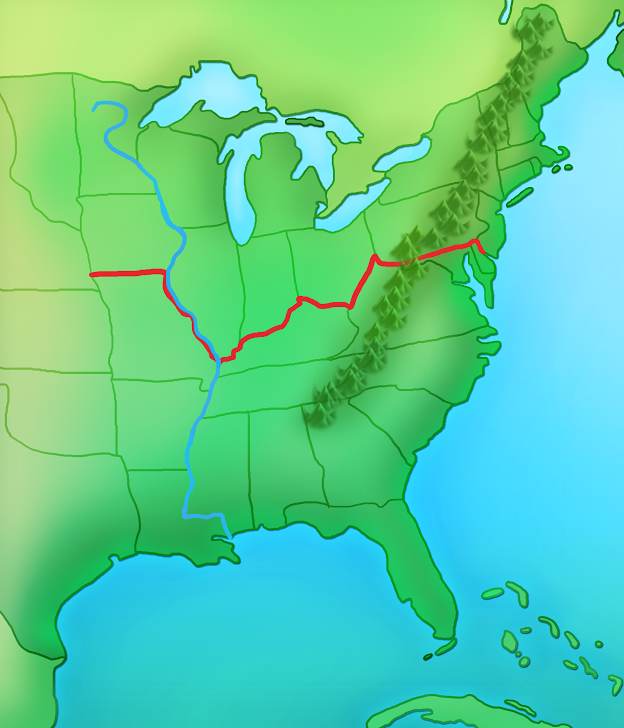
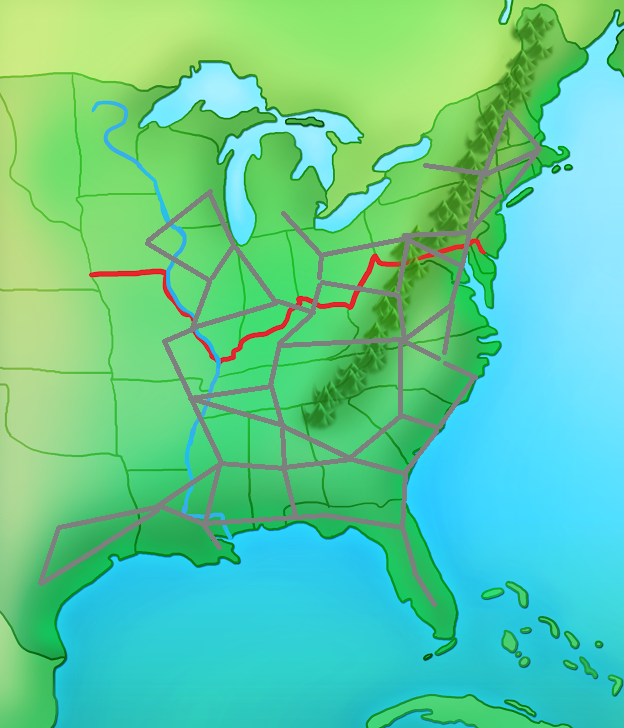
Updated Map and Position Fixes

diff --git a/scripts/game/screens/testescape.js b/scripts/game/screens/testescape.js
@@ -81,7 +81,7 @@ function(PIXI, Screen, Images, Collisions) {
 
 	var SampleMiniGame = new Screen({
 		init: function(){
-				var backMap = Images.getTexture("map.png");
+				var backMap = Images.getTexture("escapemap.png");
 				var back = new PIXI.Sprite(backMap);
 				this.stage.addChild(back);
 				var markTexture = [];
@@ -147,56 +147,56 @@ function(PIXI, Screen, Images, Collisions) {
 					
 					
 					//We're back to this ugliness because evidently javascript isn't a fan of loading CSVs
-					nodeLines = [[1,"San Antonio, Texas",50,475,"2,3",2],
-[2,"Austin, Texas",70,425,"1,4",0],
-[3,"Houston, Texas",100,445,"1,4",0],
-[4,"Alexandria, Lousiana",150,410,"2,3,5,7",0],
-[5,"Baton Rouge, Lousiana",200,430,"4,6,7,11",0],
-[6,"New Orleans, Lousiana",210,455,"5",2],
-[7,"Jackson, Mississippi",205,375,"4,5,8,10",0],
-[8,"Little Rock, Arkansas",185,320,"7,9,15,16",1],
-[9,"Birmingham, Alabama",270,345,"8,10,16,17",1],
-[10,"Montgomery, Alabama",270,375,"7,9,11,17",0],
-[11,"Tallahassee, Florida",275,420,"5,10,12",0],
-[12,"St. Augustine, Florida",365,430,"11,13,18",0],
-[13,"Lakeland, Florida",375,475,"12,14",0],
-[14,"Everglades, Flordia",400,515,"13",2],
-[15,"Springfield, Missouri",175,270,"8,19",0],
-[16,"Nashville, Tennessee",260,300,"8,9,20",0],
-[17,"Atlanta, Georgia",310,360,"9,10,18,22",0],
-[18,"Savannah, Georgia",365,375,"12,17,23",0],
-[19,"Saint Louis, Missouri",185,260,"15,27,30",0],
-[20,"Louisiville, Kentucky",270,265,"16,21,34",0],
-[21,"Roanoke, Virginia",355,275,"20,22,24,35,36",1],
-[22,"Columbia, South Carolina",360,335,"17,21,23",0],
-[23,"Charleston, South Carolina",395,345,"18,22,25,43",4],
-[24,"Raleigh, North Carolina",405,295,"21,25,36",0],
-[25,"Jacksonville, North Carolina",430,310,"23,24",0],
-[26,"Des Moines, Iowa",155,185,"27,28",0],
-[27,"Springfield, Illinois",205,220,"19,26,29",0],
-[28,"Madison, Wisconsin",205,140,"26,29",2],
-[29,"Chicago, Illinois",225,190,"27,28,30",0],
-[30,"Indianapolis, Indiana",250,235,"19,29,34",0],
-[31,"Cincinnati, Ohio",310,195,"32,33,37",0],
-[32,"Detroit, Michigan",270,155,"31",2],
-[33,"Columbus, Ohio",305,220,"31,35,34",0],
-[34,"Cleveland, Ohio",295,240,"30,20,33,35",0],
-[35,"Charleston, West Virginia",355,230,"33,34,37,21",0],
-[36,"Richmond, Virginia",405,248,"21,24,38",0],
-[37,"Pittsburgh, Pennysylvania",370,190,"31,35,39,38",0],
-[38,"Annapolis, Marland",420,215,"36,37,39",0],
-[39,"Philadelphia, Pennysylvania",430,195,"37,38,42,40",0],
-[40,"Rochester, New York",435,140,"39,43,44,41",0],
-[41,"Albany, New York",385,135,"40",2],
-[42,"New York, New York",450,175,"39,43",0],
-[43,"Boston, Massachusetts",485,130,"40,42,23,44",0],
-[44,"Montpelier, Vermont",460,90,"40,43",2]];
+					nodeLines = [[1,"San Antonio, Texas",37,570,"2,3",2],
+[2,"Austin, Texas",50,517,"1,4",0],
+[3,"Houston, Texas",90,535,"1,4",0],
+[4,"Alexandria, Lousiana",150,495,"2,3,5,7",0],
+[5,"Baton Rouge, Lousiana",200,510,"4,6,7,11",0],
+[6,"New Orleans, Lousiana",210,535,"5",2],
+[7,"Jackson, Mississippi",205,450,"4,5,8,10",0],
+[8,"Little Rock, Arkansas",185,390,"7,9,15,16",1],
+[9,"Birmingham, Alabama",270,415,"8,10,16,17",1],
+[10,"Montgomery, Alabama",270,450,"7,9,11,17",0],
+[11,"Tallahassee, Florida",285,500,"5,10,12",0],
+[12,"St. Augustine, Florida",385,510,"11,13,18",0],
+[13,"Lakeland, Florida",395,555,"12,14",0],
+[14,"Everglades, Flordia",420,585,"13",2],
+[15,"Springfield, Missouri",158,330,"8,19",0],
+[16,"Nashville, Tennessee",260,370,"8,9,20",0],
+[17,"Atlanta, Georgia",339,444,"9,10,18,22",0],
+[18,"Savannah, Georgia",395,465,"12,17,23",0],
+[19,"Saint Louis, Missouri",185,320,"15,27,30",0],
+[20,"Louisiville, Kentucky",270,335,"16,21,34",0],
+[21,"Roanoke, Virginia",388,333,"20,22,24,35,36",1],
+[22,"Columbia, South Carolina",383,405,"17,21,23",0],
+[23,"Charleston, South Carolina",425,415,"18,22,25,43",4],
+[24,"Raleigh, North Carolina",429,349,"21,25,36",0],
+[25,"Jacksonville, North Carolina",458,368,"23,24",0],
+[26,"Des Moines, Iowa",140,230,"27,28",0],
+[27,"Springfield, Illinois",198,263,"19,26,29",0],
+[28,"Madison, Wisconsin",200,190,"26,29",2],
+[29,"Chicago, Illinois",220,240,"27,28,30",0],
+[30,"Indianapolis, Indiana",260,296,"19,29,34",0],
+[31,"Cincinnati, Ohio",314,243,"32,33,37",0],
+[32,"Detroit, Michigan",270,205,"31",2],
+[33,"Columbus, Ohio",305,270,"31,35,34",0],
+[34,"Cleveland, Ohio",298,303,"30,20,33,35",0],
+[35,"Charleston, West Virginia",383,285,"33,34,37,21",0],
+[36,"Richmond, Virginia",440,298,"21,24,38",0],
+[37,"Pittsburgh, Pennysylvania",390,230,"31,35,39,38",0],
+[38,"Annapolis, Marland",435,255,"36,37,39",0],
+[39,"Philadelphia, Pennysylvania",455,225,"37,38,42,40",0],
+[40,"Rochester, New York",470,165,"39,43,44,41",0],
+[41,"Albany, New York",410,145,"40",2],
+[42,"New York, New York",490,190,"39,43",0],
+[43,"Boston, Massachusetts",525,145,"40,42,23,44",0],
+[44,"Montpelier, Vermont",500,110,"40,43",2]];
 					
 					
 					
 					//console.log(nodeLines[1]);
 					nodeLines.forEach(function(line){
-					console.log(line);
+					//console.log(line);
 						var pieces = eval(line);
 						//console.log(pieces);
 						arrData.push(pieces);

diff --git a/scripts/game/screens/scene.js b/scripts/game/screens/scene.js
@@ -443,6 +443,10 @@ define(
 		  
           var interacted = arrays.containsElement(constants.KEYS_INTERACT, keyCode);
 		  
+		  if(keyCode==27){
+		  self.changeScreen(require('game/screens/testescape'));
+		  }
+		  
 		  if(keyCode==67){
 		  self.test();
 		  }
